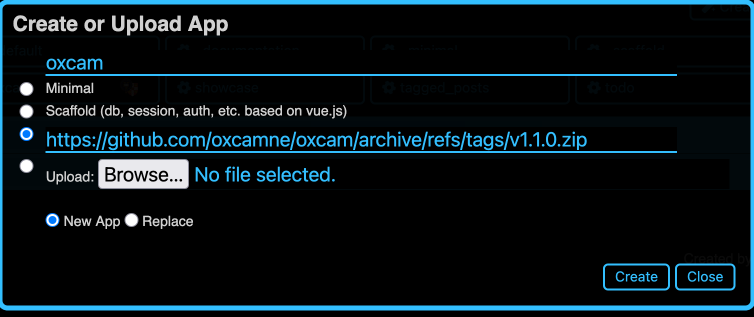
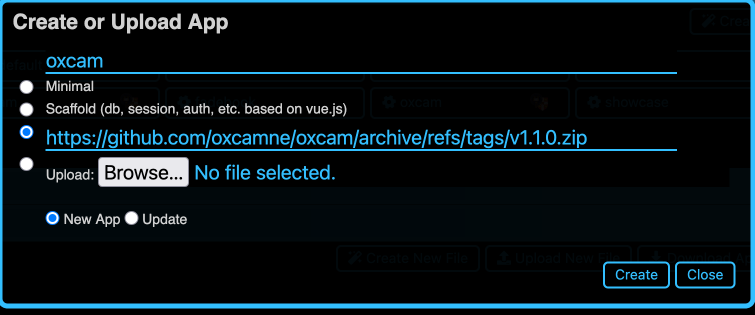
documentation.  py4web v1.20250908.3

diff --git a/controllers.py b/controllers.py
@@ -752,7 +752,6 @@ def events():
 								vars=dict(back=request.url))), " e.g. meal choices", XML('<br>'),
 						A('Survey', _href=URL(f'survey/{event_id}',
 								vars=dict(back=request.url))), XML('<br>'),
-						A('Table Assignment Tool', _href=URL(f'assign_tables/{event_id}', scheme=True)), XML('<br>'),
 						A('Make a Copy of This Event', _href=URL(f'event_copy/{event_id}',
 								vars=dict(referrer=request.query.referrer))))
 
@@ -1002,9 +1001,8 @@ def event_reservations(event_id):
 			Field('selection', 'reference Event_Selections', default = request.query.get('selection'),
 					requires=IS_EMPTY_OR(IS_IN_DB(db(db.Event_Selections.Event==event_id), db.Event_Selections.id,
 								'%(Short_name)s', zero="selection?"))))
-	survey = db(db.Event_Survey.Event==event_id).select()
-	if len(survey)>0:
-		event_survey = [(s.id, s.Short_name) for s in survey[1:]]
+	event_survey = [(s.id, s.Short_name) for s in db(db.Event_Survey.Event==event_id).select()[1:]]
+	if event_survey:
 		search_fields.append(Field('survey', requires=IS_EMPTY_OR(IS_IN_SET(event_survey, zero="survey?",
 			error_message='Please make a selection')), default = request.query.get('survey')))
 
@@ -1023,8 +1021,11 @@ def event_reservations(event_id):
 				XML("Click on the member name to view/edit reservation details."),
 				XML('<br>'))
 
-	query = f'(db.Reservations.Event=={event_id})'
+	query = f'(db.Reservations.Event=={event_id})&(db.Reservations.Host==True)'
 	status = request.query.get('status') or 'confirmed'
+	ticket = db.Event_Tickets[request.query.get('ticket')].Short_name if request.query.get('ticket') else ''
+	selection = db.Event_Selections[request.query.get('selection')].Short_name if request.query.get('selection') else ''
+	survey = db.Event_Survey[request.query.get('survey')].Short_name if request.query.get('survey') else ''
 	if status == 'tbc':
 		query += f"&db.Reservations.Member.belongs({tbc})"
 	#for waitlist, provisional, checked_in, no_show, include hosts with any guests meeting criteria
@@ -1039,9 +1040,9 @@ def event_reservations(event_id):
 (db.Reservations.Checked_in==True)).select(db.Reservations.Member, orderby=db.Reservations.Member, distinct=True)])"
 	else:	#confirmed, no show
 		query += '&(db.Reservations.Waitlist==False)&(db.Reservations.Provisional==False)'
-		header = CAT(header, A('Export confirmed registrations as CSV file',
-			 _href=(URL(f'doorlist_export/{event_id}', scheme=True))), XML('<br>'),
-			 A('Check-in Tool', _href=URL(f'check_in/{event_id}', scheme=True)), XML('<br>'),)
+		header = CAT(header,
+			A('Check-in Tool', _href=URL(f'check_in/{event_id}', scheme=True)), XML('<br>'),
+			A('Table Assignment Tool', _href=URL(f'assign_tables/{event_id}', scheme=True)), XML('<br>'))
 		
 	if status == 'no_show':
 		query += f"&db.Reservations.Member.belongs([r.Member for r in db((db.Reservations.Event=={event_id})&\
@@ -1055,14 +1056,12 @@ def event_reservations(event_id):
 	if request.query.survey:
 		query += f"&db.Reservations.Member.belongs([r.Member for r in db((db.Reservations.Event=={event_id})&\
 (db.Reservations.Survey_=={request.query.survey})).select(db.Reservations.Member, orderby=db.Reservations.Member, distinct=True)])"
-	query += '&(db.Reservations.Host==True)'
 
 	header = CAT(header, A('Send Email to filtered registrations', _href=URL('composemail', vars=dict(query=query,
 		left  = "[db.Emails.on(db.Emails.Member==db.Reservations.Member),db.Members.on(db.Members.id==db.Reservations.Member)]",	
-		qdesc=f"{event.Description} {status}",
-		back=request.url
-		))))
-	header = CAT(header, XML('<br>'), "Use dropdowns to filter (includes reservation if member or any guest fits filter):")
+		qdesc=f"{event.Description} {status} {ticket} {selection} {survey}"))), XML('<br>'),
+		 A('Export Doorlist as CSV file', _href=(URL(f'doorlist_export/{event_id}', scheme=True))), XML('<br>'),
+		"Use dropdowns to filter (includes reservation if member or any guest fits filter):")
 
 	columns = [
 		Column('member', lambda row: A(member_name(row.Reservations.Member),
@@ -1130,7 +1129,7 @@ def check_in(event_id):
 		rsvtn.update_record(Checked_in=request.query.get('check_in')=='True')
 		groupcheckedin = res_checked_in(rsvtn.Member, event_id)
 		if groupcheckedin & (groupcheckedin != res_conf(rsvtn.Member, event_id)):
-			back += f"?search_value={rsvtn.Lastname}"
+			back += f"?search_value={rsvtn.Lastname[0:3]}"
 		redirect(back)
 
 	grid = Grid((db.Reservations.Event==event_id)&(db.Reservations.Provisional==False)&(db.Reservations.Waitlist==False),
@@ -1472,6 +1471,7 @@ def reservation():
 		db.Reservations.Waitlist.readable = False
 		db.Reservations.Checked_in.readable = False
 		db.Reservations.Table.readable = False
+		db.Reservations.Table.writable = False
 
 		if host_reservation:
 			#update member's name from member record in case corrected
@@ -1628,7 +1628,7 @@ def doorlist_export(event_id):
 							primary_email(row.Reservations.Member) if row.Reservations.Host==True else '',
 							row.Members.Cellphone if row.Reservations.Host==True else '',
 							survey_name, row.Reservations.Comment or '',
-							'✔' if row.Reservations.Checked_in else ''])
+							'Y' if row.Reservations.Checked_in else ''])
 	return locals()
 	
 @action('event_copy/<event_id:int>', method=['GET'])

diff --git a/docs/install.md b/docs/install.md
@@ -57,7 +57,15 @@ Return to the Py4web Dashboard tab, and click Create/Upload App. Fill in the pop
 
 ![app_upload](images/app_upload.png)
 
+If this is your initial install, select the New App radio button, if you are updating to a new version of oxcam, select Update.
+
 Click the 'Create' button, the oxcam software will be installed and dashboard should now show that oxcam is running. You can close your Github browser tab.
+
+If this is your initial installation of oxcam, you will need to install some additional Python modules on which it depends. With your terminal still at the py4web directory, type the command:
+
+`pip install --upgrade -r apps/oxcam/requirements.txt`
+
+Finally, reload the apps using the 'Reload Apps' button on the Py4web Dashboard.
 
 ### Start Oxcam and Initial Configuration
 
@@ -118,41 +126,36 @@ py4web/py4web.py call py4web/apps oxcam.daily_maintenance.daily_maintenance
 
 ### How to update the oxcam app when a newer version is released
 
-The current version of the py4web dashboard does not allow the app to be updated directly from Github.
+The Py4web Dashboard should be used to update the oxcam app. Open the Py4web dashboard (<your_py4web_url>/_dashboard) in a new browser tab, using the password you setup when installing py4web, and expand the 'Installed Applications' section.
 
-Start by finding the latest version of the oxcam app on Github as described earlier, and copying the .zip link.
-
-On your web server open a bash terminal session. Navigate to the parent of the py4web directory (cd ~ if you are on Pythonanywhere), then, pasting in the copied link in the wget command and using the current latest version:
-
-on Linux:
-
-```bash
-    wget https://github.com/oxcamne/oxcam/archive/refs/tags/v1.1.0.zip
-    unzip v1.1.0
-    cp -r --force oxcam-1.1.0/. py4web/apps/oxcam
-    pip install --upgrade -r py4web/apps/oxcam/requirements.txt
-```
-
-on Mac:
-
-```bash
-    curl -LO https://github.com/oxcamne/oxcam/archive/refs/tags/v1.1.0.zip
-    unzip v1.1.0
-    cp -R oxcam-1.1.0/. py4web/apps/oxcam
-    pip install --upgrade -r py4web/apps/oxcam/requirements.txt
-```
-
-You must restart Py4web, e.g. using the big green button on the Pythonanywhere Console Web tab or
-clicking the Reload Apps button on the Py4web Dashboard.
+Follow a similar process to the original install to [install the new version of the oxcam app](install#download-the-latest-version-of-the-oxcam-software).
 
 ### How to update to a new release of Py4web
 
-With a system or bash terminal at your py4web directory and your venv running run the command:
+If your server is a Pythonanywhere instance:
+
+With a bash terminal at your py4web directory run the command:
 
 `python3 -m pip install --upgrade py4web`
 
-This will not update the built in apps, most importantly the _dashboard. *To update these, first go the py4web/apps directly and delete all the apps **other than oxcam**.* Then return the terminal to py4web and run:
+This will not update the built in apps. *To update these, first go the py4web/apps directory and delete the folder for the app to update (most likely '_dashboard')*. Then return the terminal to py4web and run:
 
 `py4web setup apps`
 
-Finally, you must restart py4web.
+Finally, you must restart py4web, either using the big green button on the Pythonanywhere console web tab.
+
+If you are running on another type of server, on the terminal running py4web, first stop py4web (type control-C), verify that your venv is running as indicated by '(venv)' at the start of the prompt - if not, run:
+
+`. venv/bin/activate`
+
+Then run the commands:
+
+`pip install --ugrade py4web`
+
+This will not update the built in apps. *To update these, first go the py4web/apps directory and delete the folder for the app to update (most likely '_dashboard')*. Then return the terminal to py4web and run:
+
+`py4web setup apps`
+
+Finally, restart py4web:
+
+`py4web run apps`

diff --git a/docs/py4web_pythonanywhere.md b/docs/py4web_pythonanywhere.md
@@ -32,7 +32,7 @@ Next create a py4web directory using the command **`mkdir py4web`** and switch t
 
 Complete the installation by running the command **`py4web setup apps`**. Answer 'Y' to create the `apps` folder, then answer the questions relating to each py4web app to install. You can answer 'N' to most of them, but be sure to answer 'Y' to **_dashboard, _default, _documentation, _minimal, and _scaffold**.
 
-Provide a secure password for the py4web dashboard, making sure to keep track of it for future use! You need to enter the password twice to have it confirmed and stored.
+Provide a secure password for the py4web dashboard, making sure to keep track of it for future use! You need to enter the password twice to have it confirmed and stored. You can use the command **`py4web set_password`** to create or change the password at any time.
 
 After the password is stored, you will be prompted:
 
@@ -86,4 +86,4 @@ Open a new browser tab to check you have a working py4web installation.
 
 Browse to [https://yourusername/pythonanywhere.com/_dashboard](https://yourusername/pythonanywhere.com/_dashboard) (you need to replace yourusername with your Pythonanywhere username), and you should be prompted for the password you selected earlier. You are now (hopefully) looking at the py4web dashboard. You will be using this to install the oxcam app.
 
-Continue to [install the oxcam app in your new py4web site](install#find-the-latest-version-of-the-oxcam-software).
+Continue to [install the oxcam app in your new py4web site](install#download-the-latest-version-of-the-oxcam-software).
